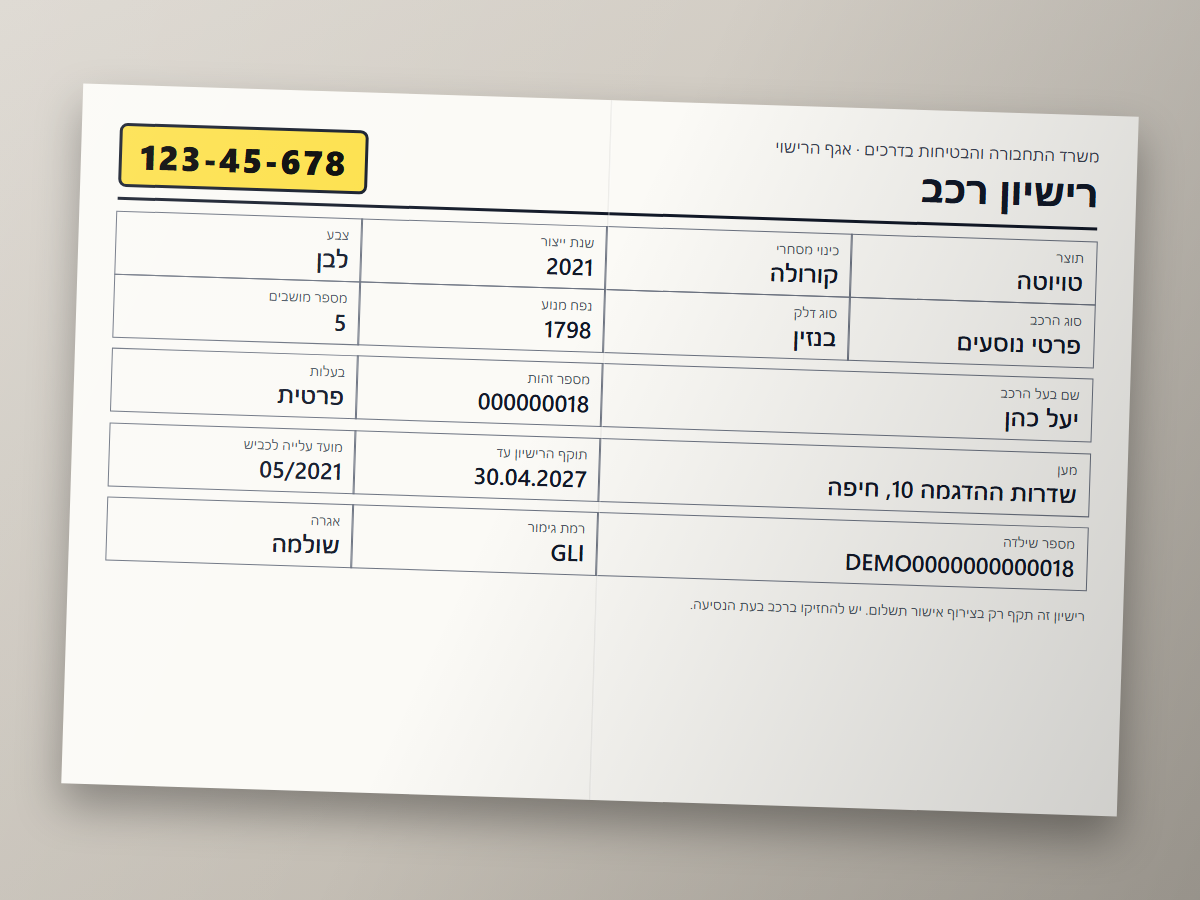
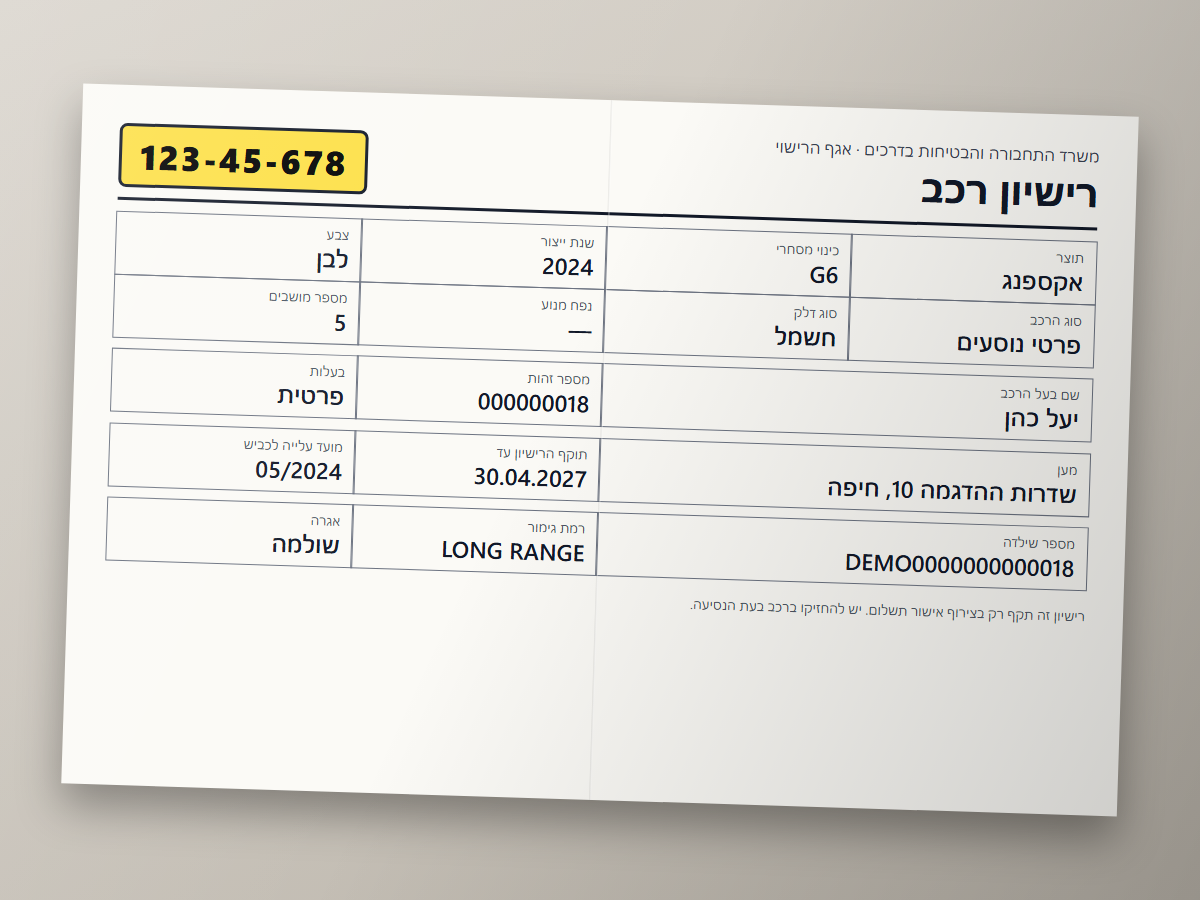
feat(promo): demo vehicle matches the uploaded car photos; narration script
The damaged-car photos show an XPENG G6, so the demo claim, the vehicle
registration prop and the filled form now say the same.

diff --git a/training/promo/fixture-docs.ts b/training/promo/fixture-docs.ts
@@ -62,9 +62,9 @@ export const registration = photo(DESK, 1.8, `<div style="width:980px;height:640
     <div><div style="font-size:16px;color:#374151">משרד התחבורה והבטיחות בדרכים · אגף הרישוי</div><b style="font-size:38px;color:#111827">רישיון רכב</b></div>
     <div dir="ltr" style="border:3px solid #111827;border-radius:8px;padding:6px 18px;font-size:34px;font-weight:800;letter-spacing:2px;background:#fde047">${plate}</div></div>
   ${grid("repeat(4,1fr)", cell("תוצר", d.vehicle.manufacturer) + cell("כינוי מסחרי", d.vehicle.model) + cell("שנת ייצור", d.vehicle.year) + cell("צבע", d.vehicle.color)
-    + cell("סוג הרכב", "פרטי נוסעים") + cell("סוג דלק", "בנזין") + cell("נפח מנוע", "1798") + cell("מספר מושבים", "5"))}
+    + cell("סוג הרכב", "פרטי נוסעים") + cell("סוג דלק", "חשמל") + cell("נפח מנוע", "—") + cell("מספר מושבים", "5"))}
   ${grid("2fr 1fr 1fr", cell("שם בעל הרכב", name) + cell("מספר זהות", d.insured.id_number) + cell("בעלות", "פרטית"))}
-  ${grid("2fr 1fr 1fr", cell("מען", address) + cell("תוקף הרישיון עד", "30.04.2027") + cell("מועד עלייה לכביש", "05/2021"))}
-  ${grid("2fr 1fr 1fr", cell("מספר שילדה", "DEMO0000000000018") + cell("רמת גימור", "GLI") + cell("אגרה", "שולמה"))}
+  ${grid("2fr 1fr 1fr", cell("מען", address) + cell("תוקף הרישיון עד", "30.04.2027") + cell("מועד עלייה לכביש", "05/2024"))}
+  ${grid("2fr 1fr 1fr", cell("מספר שילדה", "DEMO0000000000018") + cell("רמת גימור", "LONG RANGE") + cell("אגרה", "שולמה"))}
   <div style="margin-top:16px;font-size:13px;color:#4b5563">רישיון זה תקף רק בצירוף אישור תשלום. יש להחזיקו ברכב בעת הנסיעה.</div>
 </div>`);

diff --git a/training/src/demo.ts b/training/src/demo.ts
@@ -24,7 +24,7 @@ export const demoClaim = {
   policyInsurerKey: "harel",
   policyNumber: "40123567",
   insuranceTypeLabel: "מקיף",
-  vehicle: { plate: "12345678", manufacturer: "טויוטה", model: "קורולה", year: "2021", color: "לבן" },
+  vehicle: { plate: "12345678", manufacturer: "אקספנג", model: "G6", year: "2024", color: "לבן" },
   thirdParty: { name: "אבי לוי", phone: "0500000002", plate: "87654321", insurerLabel: "מגדל" },
   accident: {
     date: "2026-11-15",

diff --git a/training/promo/narration.md b/training/promo/narration.md
@@ -1,0 +1,31 @@
+# תסריט קריינות — סרטון התדמית
+
+קריינות לגרסאות המלאות בלבד (לא לקיצורי 15 השניות). כל שורה שייכת לקטע אחד בסרטון, ואורך הקטע מותאם לשורה שלו. הכיתובים שעל המסך נשארים: הסרטון חייב להיות מובן גם בלי קול.
+
+מה אסור שייכנס לכאן: מספרים, עדויות או שמות לקוחות שלא קיימים; המילה "סוכן" בגרסת המוסך.
+
+שם המוצר נהגה "אוֹפֶּן־תִיק".
+
+## מוסך
+
+| קטע | קריינות |
+|---|---|
+| chase | לקוח התקשר אחרי תאונה. ומאותו רגע מתחיל המרדף: צילום רישיון, רישיון רכב, תמונות של הנזק, פרטי הצד השני. הודעה ועוד הודעה, והרכב עדיין לא אצלכם. |
+| turn | עם אופן־תיק שולחים ללקוח קישור אחד. |
+| client | הוא עונה על כמה שאלות קצרות, מצלם את המסמכים ואת הרכב, ושולח. הכול מהטלפון, בלי להתקין שום דבר. |
+| caseFile | אצלכם במשרד התיק כבר פתוח: הפרטים, המסמכים והתמונות, מסודרים במקום אחד. |
+| form | וטופס ההודעה על התאונה לחברת הביטוח מתמלא לבד, ומוכן להורדה. |
+| outcome | פחות מרדף אחרי ניירת, והרכב נכנס לעבודה עם תיק מלא. |
+| endCard | אופן־תיק. פותחים תיק, סוגרים עניין. לתיאום הדגמה, שלחו לנו הודעה בוואטסאפ. |
+
+## סוכן ביטוח
+
+| קטע | קריינות |
+|---|---|
+| chase | מבוטח התקשר אחרי תאונה. ומאותו רגע מתחיל המרדף: צילום רישיון, רישיון רכב, תמונות של הנזק, פרטי הצד השני. הודעה ועוד הודעה, והתביעה עדיין לא הוגשה. |
+| turn | עם אופן־תיק שולחים למבוטח קישור אחד. |
+| client | הוא עונה על כמה שאלות קצרות, מצלם את המסמכים ואת הרכב, ושולח. הכול מהטלפון, בלי להתקין שום דבר. |
+| caseFile | אצלכם בסוכנות התיק כבר פתוח: הפרטים, המסמכים והתמונות, מסודרים במקום אחד. |
+| form | וטופס ההודעה על התאונה לחברת הביטוח מתמלא לבד, ומוכן להורדה. |
+| outcome | המבוטח מקבל שירות, ואתם מקבלים תיק מוכן להגשה. |
+| endCard | אופן־תיק. פותחים תיק, סוגרים עניין. לתיאום הדגמה, שלחו לנו הודעה בוואטסאפ. |
